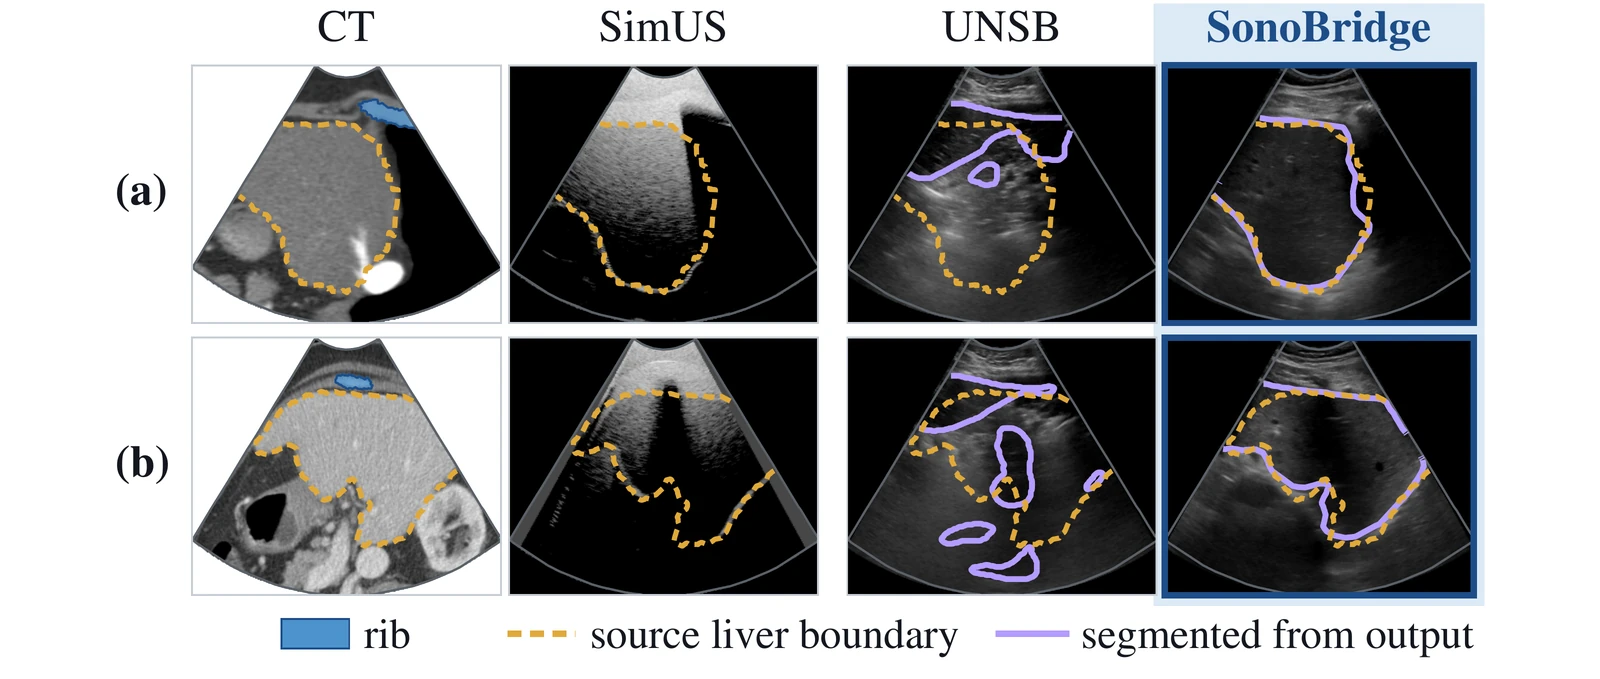
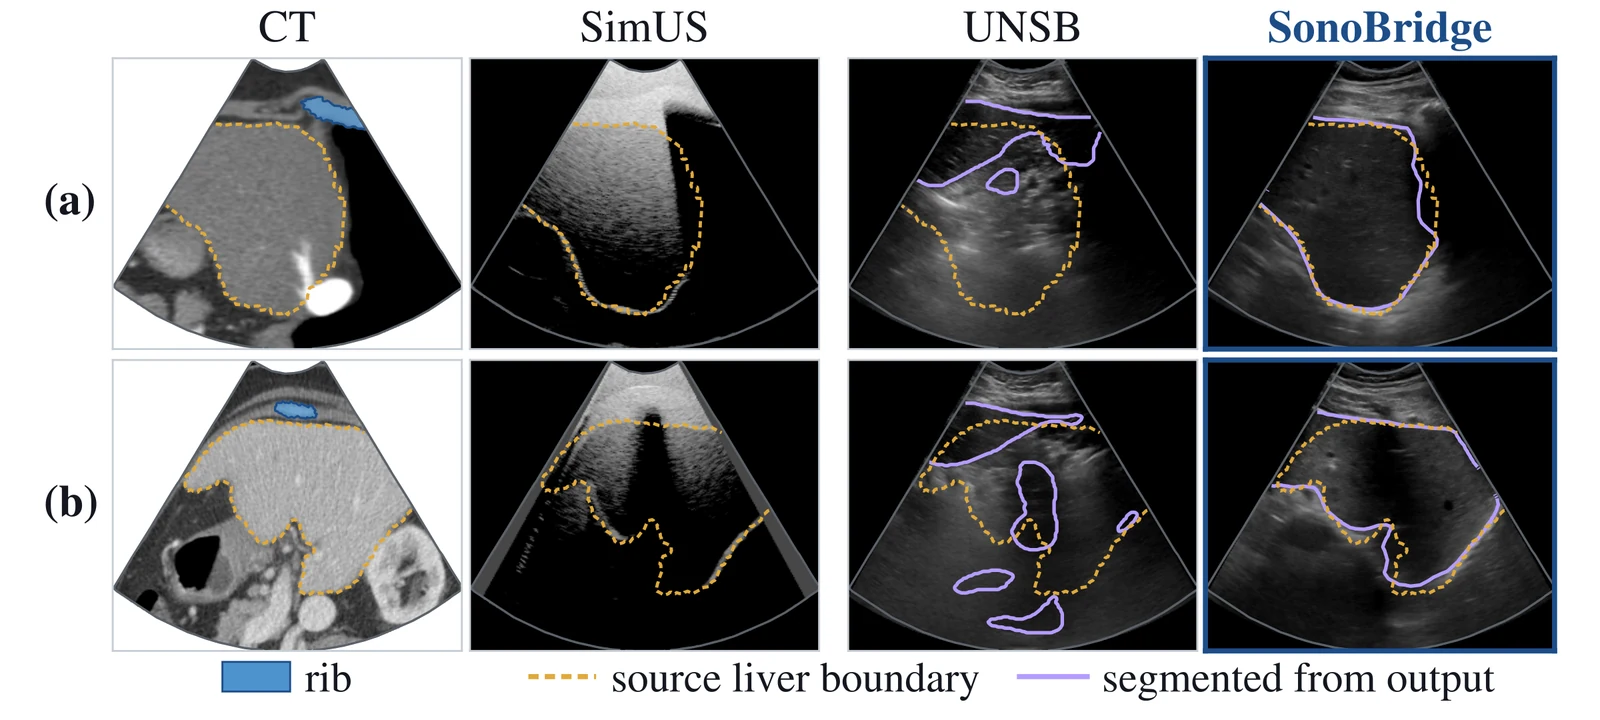
Update SonoBridge results and figures from the latest manuscript

diff --git a/index.html b/index.html
@@ -4,23 +4,23 @@
   <meta charset="utf-8">
   <meta name="viewport" content="width=device-width, initial-scale=1">
   <title>SonoBridge: Anatomy-Conditioned Schrödinger Bridge for Unpaired CT-to-Ultrasound Synthesis</title>
-  <meta name="description" content="SonoBridge learns from unpaired clinical ultrasound to synthesize liver and kidney views from labeled CT. Explore the live demo, one-minute film and results.">
+  <meta name="description" content="SonoBridge synthesizes ultrasound from labeled CT and unpaired clinical scans. Explore the liver and kidney demo and compare anatomical match and image realism in a blinded reader study.">
   <meta name="keywords" content="SonoBridge, ultrasound synthesis, CT, anatomical conditioning, Schrödinger bridge">
   <meta property="og:type" content="website">
   <meta property="og:title" content="SonoBridge: Anatomy-Conditioned Schrödinger Bridge for Unpaired CT-to-Ultrasound Synthesis">
-  <meta property="og:description" content="Move a virtual probe through liver and kidney CT anatomy, compare the synthesized ultrasound with its source, and explore the results.">
+  <meta property="og:description" content="Move a virtual probe through liver and kidney CT anatomy, then see how readers judged the realism and anatomical correspondence of the synthesized views.">
   <meta property="og:url" content="https://noseefood.github.io/us-sonobridge/">
   <meta property="og:image" content="https://noseefood.github.io/us-sonobridge/static/video/overview-poster.jpg?v=21">
   <meta property="og:image:alt" content="Virtual ultrasound probe above a liver reconstructed from CT.">
   <meta name="twitter:card" content="summary_large_image">
   <meta name="twitter:title" content="SonoBridge: Anatomy-Conditioned Schrödinger Bridge for Unpaired CT-to-Ultrasound Synthesis">
-  <meta name="twitter:description" content="Ultrasound synthesis from labeled CT and unpaired clinical scans. Explore the liver and kidney demo, film and results.">
+  <meta name="twitter:description" content="Explore ultrasound synthesis from labeled CT and unpaired clinical scans, with an interactive demo and blinded reader comparisons for liver and kidney.">
   <meta name="twitter:image" content="https://noseefood.github.io/us-sonobridge/static/video/overview-poster.jpg?v=21">
   <link rel="canonical" href="https://noseefood.github.io/us-sonobridge/">
   <link rel="icon" type="image/x-icon" href="static/images/ultrasound_icon.ico">
   <link rel="preload" href="static/fonts/inter-latin.woff2" as="font" type="font/woff2" crossorigin>
   <link rel="stylesheet" href="static/css/fonts.css">
-  <link rel="stylesheet" href="static/css/index.css?v=33">
+  <link rel="stylesheet" href="static/css/index.css?v=34">
   <link rel="stylesheet" href="static/css/demo.css?v=33">
   <script defer src="static/js/nav.js?v=29"></script>
   <script type="module" src="static/js/page.js?v=11"></script>
@@ -51,7 +51,7 @@
         <span class="affiliation-block"><sup>b</sup>Munich Center for Machine Learning</span>
         <span class="affiliation-block"><sup>c</sup>The University of Hong Kong</span>
       </div>
-      <p class="publication-summary">SonoBridge learns clinical appearance from unpaired ultrasound scans and synthesizes new views from labeled CT. Each view retains its probe pose and aligned anatomical labels.</p>
+      <p class="publication-summary">SonoBridge turns labeled CT volumes into ultrasound views with known probe poses and aligned anatomical labels. It learns tissue appearance from unpaired clinical scans and uses the simulated acquisition to determine which fine structures are visible.</p>
       <div class="publication-links">
         <div class="experience-links">
           <a href="#interactive" class="project-button primary"><svg width="18" height="18" viewBox="0 0 24 24" aria-hidden="true"><path d="M8.3 5.3a7.5 7.5 0 0 0 7.4 0l5.2 12.2a17.4 17.4 0 0 1-17.8 0L8.3 5.3ZM5.5 12.1a13.6 13.6 0 0 0 13 0" fill="none" stroke="currentColor" stroke-width="1.55" stroke-linejoin="round" stroke-linecap="round"/></svg>Explore demo</a>
@@ -148,14 +148,15 @@
   <div class="method-layout">
     <div class="method-copy">
       <h3>Virtual acquisition</h3>
-      <p>A virtual probe samples the front of the abdomen for liver views and the back for left kidney views. At each pose with sufficient skin contact, ray-based simulation produces the starting ultrasound image. The CT slice and anatomical labels share the same imaging plane.</p>
+      <p id="acquisition-caption">A virtual probe samples the abdomen from the front for liver views and from the back for left kidney views. Each orientation is checked for skin contact across the central part of the probe. At each accepted pose, ray-based simulation produces an ultrasound image on the same grid as the CT slice and anatomical labels.</p>
+      <a class="comparison-link" href="static/images/virtual-acquisition.webp" data-figure-title="Virtual acquisition" data-figure-alt="Anterior liver and posterior left kidney scans, skin contact across the probe footprint, and the aligned images, labels, visibility and pose for one liver view." aria-haspopup="dialog" aria-describedby="acquisition-caption">View probe placement and the acquisition record</a>
       <h3>Anatomy-conditioned refinement</h3>
-      <p>A Schrödinger bridge refines the simulated image in five steps. Each step uses the full organ mask, including tissue in shadow. Visibility derived from the simulated acquisition limits fine-structure guidance to visible hepatic vessels or renal medulla.</p>
-      <p>During training, the bridge learns tissue appearance from unpaired clinical scans. The source labels also supervise the anatomy of each prediction in visible tissue.</p>
+      <p>A five-step Schrödinger bridge starts from the simulated echoes and shadows. At every step, the full target-organ mask supplies the organ layout. Visibility derived from the simulated acquisition limits fine-structure guidance to visible hepatic vessels or renal medulla.</p>
+      <p>During training, a frozen ultrasound model (UltraSAM3) segments the organ in each prediction. One loss compares its mask with the CT label in visible tissue. A second encourages visible fine structures to appear darker than their surroundings.</p>
     </div>
     <figure class="paper-figure method-figure">
-      <a class="figure-preview" href="static/images/method-overview-1600.webp" data-figure-title="Anatomy-conditioned refinement" aria-haspopup="dialog" aria-label="Enlarge the method figure" aria-describedby="method-caption">
-        <img src="static/images/method-overview-800.webp" srcset="static/images/method-overview-800.webp 800w, static/images/method-overview-1600.webp 1600w" sizes="(max-width: 900px) 95vw, (max-width: 1376px) 52vw, 640px" width="1600" height="1050" loading="lazy" decoding="async" alt="A simulated ultrasound view with acoustic shadows starts the bridge. Anatomical maps guide its path toward clinical ultrasound at each step.">
+      <a class="figure-preview" href="static/images/method-overview-1600.webp?v=2" data-figure-title="Anatomy-conditioned refinement" aria-haspopup="dialog" aria-label="Enlarge the method figure" aria-describedby="method-caption">
+        <img src="static/images/method-overview-800.webp?v=2" srcset="static/images/method-overview-800.webp?v=2 800w, static/images/method-overview-1600.webp?v=2 1600w" sizes="(max-width: 900px) 95vw, (max-width: 1376px) 52vw, 640px" width="1600" height="1050" loading="lazy" decoding="async" alt="One simulated view starts the bridge. Anatomical guidance leads to an output aligned with the source. Two other paths show mismatched fine detail and a shadow error.">
         <span class="enlarge-label" aria-hidden="true">Enlarge <span>⤢</span></span>
       </a>
       <figcaption id="method-caption">For one probe pose, the simulated echoes and shadows set the starting point. The upper path follows the source anatomy through refinement.</figcaption>
@@ -164,39 +165,94 @@
 </section>
 <section id="results" class="project-section" aria-labelledby="results-heading">
   <h2 class="section-heading" id="results-heading">Results</h2>
-  <p class="section-lead">On liver ultrasound, SonoBridge reduced FID by <strong>19%</strong> and KID by <strong>36%</strong> relative to UNSB, the strongest of seven baselines on both measures. Liver refinement averaged <strong>23.3 ms</strong> per image on one NVIDIA RTX PRO 6000, including preprocessing.</p>
+  <p class="section-lead">In a blinded study, readers chose SonoBridge as the closest match to the source anatomy in <strong>71.9% of liver trials</strong> and <strong>61.0% of kidney trials</strong>. The differences in realism ratings were smaller. On liver, SonoBridge reduced FID by <strong>19%</strong> and KID by <strong>36%</strong> relative to UNSB.</p>
   <div class="results-layout">
     <div class="scores">
-      <table class="score-table" aria-describedby="metric-note">
-        <caption>Appearance on held-out CT cases</caption>
-        <colgroup span="1"></colgroup><colgroup span="2"></colgroup><colgroup span="2"></colgroup>
-        <thead>
-          <tr><th scope="col" rowspan="2">Method</th><th scope="colgroup" colspan="2">Liver <small>1,200 views · 8 cases</small></th><th scope="colgroup" colspan="2">Kidney <small>974 views · 5 cases</small></th></tr>
-          <tr><th scope="col">FID</th><th scope="col">KID</th><th scope="col">FID</th><th scope="col">KID</th></tr>
-        </thead>
-        <tbody>
-          <tr class="ours"><th scope="row">SonoBridge</th><td>59.81</td><td>4.63</td><td>33.48</td><td>1.83</td></tr>
-          <tr><th scope="row">CycleGAN</th><td>161.43</td><td>25.56</td><td>51.32</td><td>4.78</td></tr>
-          <tr><th scope="row">CUT</th><td>81.68</td><td>9.00</td><td>39.98</td><td>1.91</td></tr>
-          <tr><th scope="row">UNSB</th><td>73.80</td><td>7.22</td><td>34.46</td><td>1.94</td></tr>
-          <tr><th scope="row">SynDiff</th><td>118.61</td><td>14.61</td><td>84.52</td><td>10.99</td></tr>
-          <tr><th scope="row">StegoGAN</th><td>92.13</td><td>8.36</td><td>79.40</td><td>9.58</td></tr>
-          <tr><th scope="row">SANTA</th><td>85.73</td><td>7.63</td><td>49.91</td><td>3.51</td></tr>
-          <tr><th scope="row">SASAN</th><td>78.35</td><td>7.71</td><td>48.34</td><td>4.55</td></tr>
-        </tbody>
-      </table>
-      <p class="figure-note" id="metric-note">Lower Fréchet and kernel inception distances (FID and KID) indicate closer agreement with clinical ultrasound in feature space. KID values are scaled by 100.</p>
+      <details class="metric-group" open>
+        <summary id="reader-heading">Blinded reader study</summary>
+        <p class="metric-context">Readers compared eight outputs with the CT slice and its labels for 16 liver and 10 kidney views. In a separate task, they scored individual images for realism from 1 to 5 using 9 liver and 8 kidney views.</p>
+        <table class="score-table" aria-labelledby="reader-heading" aria-describedby="reader-note">
+          <colgroup span="1"></colgroup><colgroup span="2"></colgroup><colgroup span="2"></colgroup>
+          <thead>
+            <tr><th scope="col" rowspan="2">Method</th><th scope="colgroup" colspan="2">Liver</th><th scope="colgroup" colspan="2">Kidney</th></tr>
+            <tr><th scope="col">Match</th><th scope="col">Realism</th><th scope="col">Match</th><th scope="col">Realism</th></tr>
+          </thead>
+          <tbody>
+            <tr class="ours"><th scope="row">SonoBridge</th><td>71.9%</td><td>3.80</td><td>61.0%</td><td>4.11</td></tr>
+            <tr><th scope="row">CycleGAN</th><td>3.1%</td><td>3.17</td><td>14.0%</td><td>3.96</td></tr>
+            <tr><th scope="row">CUT</th><td>1.3%</td><td>3.14</td><td>2.0%</td><td>3.74</td></tr>
+            <tr><th scope="row">UNSB</th><td>2.5%</td><td>3.44</td><td>9.0%</td><td>3.84</td></tr>
+            <tr><th scope="row">SynDiff</th><td>5.0%</td><td>2.07</td><td>0.0%</td><td>1.91</td></tr>
+            <tr><th scope="row">StegoGAN</th><td>3.8%</td><td>3.20</td><td>3.0%</td><td>3.54</td></tr>
+            <tr><th scope="row">SANTA</th><td>0.6%</td><td>2.64</td><td>5.0%</td><td>3.41</td></tr>
+            <tr><th scope="row">SASAN</th><td>8.1%</td><td>2.78</td><td>5.0%</td><td>3.51</td></tr>
+          </tbody>
+        </table>
+        <p class="figure-note" id="reader-note">Values are means across ten readers with technical ultrasound experience after two post hoc exclusions. Match rates include abstentions. Clinical frames averaged 4.03 for liver and 4.04 for kidney on realism.</p>
+      </details>
+      <details class="metric-group">
+        <summary id="inception-heading">Inception-v3 distances</summary>
+        <table class="score-table" aria-labelledby="inception-heading" aria-describedby="inception-note">
+          <colgroup span="1"></colgroup><colgroup span="2"></colgroup><colgroup span="2"></colgroup>
+          <thead>
+            <tr><th scope="col" rowspan="2">Method</th><th scope="colgroup" colspan="2">Liver <small>1,200 views · 8 cases</small></th><th scope="colgroup" colspan="2">Kidney <small>974 views · 5 cases</small></th></tr>
+            <tr><th scope="col">FID</th><th scope="col">KID</th><th scope="col">FID</th><th scope="col">KID</th></tr>
+          </thead>
+          <tbody>
+            <tr class="ours"><th scope="row">SonoBridge</th><td>59.81</td><td>4.63</td><td>33.48</td><td>1.83</td></tr>
+            <tr><th scope="row">CycleGAN</th><td>161.43</td><td>25.56</td><td>51.32</td><td>4.78</td></tr>
+            <tr><th scope="row">CUT</th><td>81.68</td><td>9.00</td><td>39.98</td><td>1.91</td></tr>
+            <tr><th scope="row">UNSB</th><td>73.80</td><td>7.22</td><td>34.46</td><td>1.94</td></tr>
+            <tr><th scope="row">SynDiff</th><td>118.61</td><td>14.61</td><td>84.52</td><td>10.99</td></tr>
+            <tr><th scope="row">StegoGAN</th><td>92.13</td><td>8.36</td><td>79.40</td><td>9.58</td></tr>
+            <tr><th scope="row">SANTA</th><td>85.73</td><td>7.63</td><td>49.91</td><td>3.51</td></tr>
+            <tr><th scope="row">SASAN</th><td>78.35</td><td>7.71</td><td>48.34</td><td>4.55</td></tr>
+          </tbody>
+        </table>
+        <p class="figure-note" id="inception-note">Fréchet and kernel inception distances (FID and KID) compare the synthesized and unpaired clinical images separately for each organ. Lower is better. KID is scaled by 100.</p>
+      </details>
+      <details class="metric-group">
+        <summary id="biomed-heading">BiomedCLIP distances</summary>
+        <table class="score-table" aria-labelledby="biomed-heading" aria-describedby="biomed-note">
+          <colgroup span="1"></colgroup><colgroup span="2"></colgroup><colgroup span="2"></colgroup>
+          <thead>
+            <tr><th scope="col" rowspan="2">Method</th><th scope="colgroup" colspan="2">Liver <small>1,200 views · 8 cases</small></th><th scope="colgroup" colspan="2">Kidney <small>974 views · 5 cases</small></th></tr>
+            <tr><th scope="col">FD<sub>B</sub></th><th scope="col">KD<sub>B</sub></th><th scope="col">FD<sub>B</sub></th><th scope="col">KD<sub>B</sub></th></tr>
+          </thead>
+          <tbody>
+            <tr class="ours"><th scope="row">SonoBridge</th><td>221</td><td>82.6</td><td>131</td><td>48.6</td></tr>
+            <tr><th scope="row">CycleGAN</th><td>1044</td><td>710.4</td><td>319</td><td>163.1</td></tr>
+            <tr><th scope="row">CUT</th><td>800</td><td>541.8</td><td>158</td><td>49.3</td></tr>
+            <tr><th scope="row">UNSB</th><td>553</td><td>366.2</td><td>171</td><td>73.7</td></tr>
+            <tr><th scope="row">SynDiff</th><td>348</td><td>202.1</td><td>683</td><td>505.7</td></tr>
+            <tr><th scope="row">StegoGAN</th><td>555</td><td>314.2</td><td>525</td><td>333.8</td></tr>
+            <tr><th scope="row">SANTA</th><td>548</td><td>330.0</td><td>361</td><td>207.8</td></tr>
+            <tr><th scope="row">SASAN</th><td>515</td><td>332.7</td><td>358</td><td>225.3</td></tr>
+          </tbody>
+        </table>
+        <p class="figure-note" id="biomed-note">FD<sub>B</sub> and KD<sub>B</sub> are the Fréchet and kernel distances in BiomedCLIP’s biomedical image features. Both are unscaled, and lower values indicate closer agreement with clinical ultrasound.</p>
+      </details>
+      <p class="figure-note runtime-note">Liver refinement averaged <strong>23.3 ms per image</strong> across 80 test views on one NVIDIA RTX PRO 6000, including preprocessing.</p>
     </div>
-    <figure class="paper-figure result-figure">
-      <h3>Anatomical correspondence</h3>
-      <a class="figure-preview" href="static/images/liver-correspondence-1600.webp" data-figure-title="Anatomical correspondence" aria-haspopup="dialog" aria-label="Enlarge the liver correspondence figure" aria-describedby="liver-caption">
-        <img src="static/images/liver-correspondence-800.webp" srcset="static/images/liver-correspondence-800.webp 800w, static/images/liver-correspondence-1600.webp 1600w" sizes="(max-width: 900px) 95vw, (max-width: 1376px) 51vw, 660px" width="1600" height="679" loading="lazy" decoding="async" alt="Two liver test views compare CT, simulated ultrasound, UNSB and SonoBridge. The liver outline segmented from each SonoBridge image closely follows the outline from CT.">
-        <span class="enlarge-label" aria-hidden="true">Enlarge <span>⤢</span></span>
-      </a>
-      <figcaption id="liver-caption">The dashed gold line marks the liver boundary from CT. Violet shows the boundary segmented from each output, in a clear window (top) and a view with rib shadows (bottom).</figcaption>
-      <a class="comparison-link" href="static/images/liver-kidney-comparison.webp" data-figure-title="Liver and kidney comparisons" data-figure-alt="Five test views compare SonoBridge and seven baselines for clear acoustic windows, modeled shadows and challenging anatomy." aria-haspopup="dialog" aria-describedby="comparison-caption">Compare all methods on liver and kidney views</a>
-      <p class="comparison-note" id="comparison-caption">The full comparison includes unpaired clinical reference frames selected by similarity.</p>
-    </figure>
+    <div class="results-visuals">
+      <figure class="paper-figure result-figure">
+        <h3>Anatomical correspondence</h3>
+        <a class="figure-preview" href="static/images/liver-correspondence-1600.webp?v=2" data-figure-title="Anatomical correspondence" aria-haspopup="dialog" aria-label="Enlarge the liver correspondence figure" aria-describedby="liver-caption">
+          <img src="static/images/liver-correspondence-800.webp?v=2" srcset="static/images/liver-correspondence-800.webp?v=2 800w, static/images/liver-correspondence-1600.webp?v=2 1600w" sizes="(max-width: 900px) 95vw, (max-width: 1376px) 51vw, 660px" width="1600" height="720" loading="lazy" decoding="async" alt="CT, simulated ultrasound, UNSB and SonoBridge on two liver views. The violet SonoBridge contour follows the dashed CT contour in the clear view and between rib shadows.">
+          <span class="enlarge-label" aria-hidden="true">Enlarge <span>⤢</span></span>
+        </a>
+        <figcaption id="liver-caption">Dashed gold marks the liver boundary from CT. Violet marks the boundary segmented from each output by LiverUSRecon. The lower view shows the liver between rib shadows.</figcaption>
+        <a class="comparison-link" href="static/images/liver-kidney-comparison.webp?v=2" data-figure-title="Liver and kidney comparisons" data-figure-alt="Five source views and the outputs of all eight methods. Boxes mark visible vessels in the first liver view and the rib shadow in the second." aria-haspopup="dialog" aria-describedby="comparison-caption">Compare all eight methods on liver and kidney views</a>
+        <p class="comparison-note" id="comparison-caption">All methods start from the same simulated image. The clinical reference frames were selected from unpaired scans by similarity.</p>
+      </figure>
+      <div class="secondary-findings">
+        <h3>Ablation results</h3>
+        <p>Refining simulated ultrasound gave lower distances on all five measures than translating CT slices or label maps directly, for both organs. On liver, removing fine-structure guidance lowered FID and KID but increased both BiomedCLIP distances and the distance based on ultrasound statistics.</p>
+        <h3>Control at a fixed pose</h3>
+        <p id="control-caption">Increasing the fine-structure weight from 0 to 1 raised mean vessel contrast from 0.015 to 0.154 across 1,200 liver views. The figure shows one view as vessel contrast and shadow extent are varied separately.</p>
+        <a class="comparison-link" href="static/images/liver-appearance-control.webp" data-figure-title="Control at a fixed liver pose" data-figure-alt="At one liver pose, increasing fine-structure weight darkens visible vessels. Enlarging one modeled shadow increases the shadowed fraction of the imaging sector from 36% to 73%." aria-haspopup="dialog" aria-describedby="control-caption">View the liver control experiment</a>
+      </div>
+    </div>
   </div>
 </section>
 <dialog id="figure-dialog" aria-labelledby="figure-title" aria-describedby="figure-caption">

diff --git a/static/css/index.css b/static/css/index.css
@@ -67,6 +67,21 @@ a:focus-visible,button:focus-visible,input:focus-visible{outline:2px solid var(-
 .comparison-link:hover,.download-link:hover { text-decoration-color:currentColor; }
 .section-lead { max-width:89ch; margin:-4px 0 25px; line-height:1.65; }
 .section-lead strong { font-weight:650; color:#4f4068; }
+.metric-group { border-bottom:1px solid #e3deea; }
+.metric-group:first-child { border-top:1px solid #e3deea; }
+.metric-group[open] { padding-bottom:15px; }
+.metric-group summary { display:flex; align-items:center; justify-content:space-between; gap:12px; min-height:48px; padding:10px 3px; list-style:none; color:#50455f; font-size:clamp(16px,1.5vw,19px); font-weight:570; line-height:1.35; cursor:pointer; }
+.metric-group summary::-webkit-details-marker { display:none; }
+.metric-group summary::after { content:""; flex:none; margin-right:4px; width:8px; height:8px; border:solid currentColor; border-width:0 1.5px 1.5px 0; transform:translateY(-2px) rotate(45deg); }
+.metric-group[open] summary::after { transform:translateY(2px) rotate(225deg); }
+.metric-group summary:hover,.metric-group summary:focus-visible { color:var(--accent); }
+.metric-group summary:focus-visible { outline:2px solid var(--accent); outline-offset:2px; border-radius:3px; }
+.metric-context,.secondary-findings p { font-size:15px; line-height:1.6; }
+.metric-context { margin:0 0 13px; }
+.runtime-note { margin-top:14px; }
+.secondary-findings { margin-top:20px; padding-top:17px; border-top:1px solid #e3deea; }
+.secondary-findings p { margin-top:6px; }
+.secondary-findings h3:not(:first-child) { margin-top:18px; }
 .score-table { width:100%; border-collapse:collapse; font-size:15px; line-height:1.4; font-variant-numeric:tabular-nums; }
 .score-table caption { text-align:start; padding-bottom:15px; }
 .score-table th,.score-table td { padding:6px 10px; }
